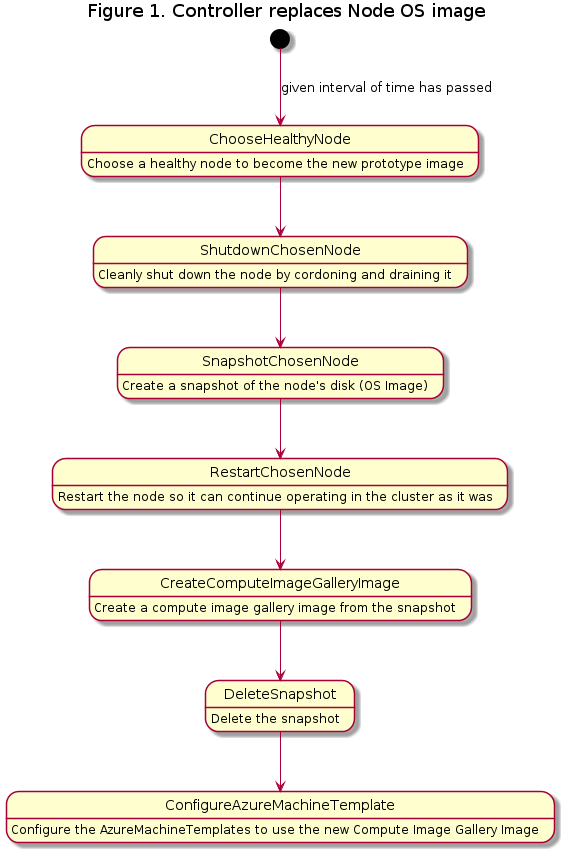
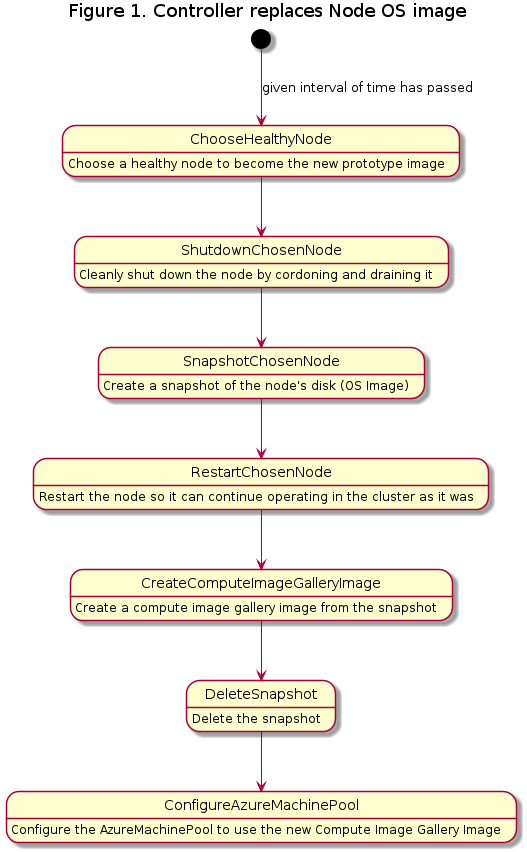
Trying to squash commits and add proposal

diff --git a/docs/proposals/20230612-node-os-image-caching.md b/docs/proposals/20230612-node-os-image-caching.md
@@ -20,7 +20,7 @@ Integrate Node OS Image caching with CAPZ
 
 ## Table of Contents
 
-- [Title](#title)
+- [Integrate Node OS Image caching with CAPZ](#title)
   - [Table of Contents](#table-of-contents)
   - [Glossary](#glossary)
   - [Summary](#summary)
@@ -29,15 +29,6 @@ Integrate Node OS Image caching with CAPZ
     - [Non-Goals/Future Work](#non-goalsfuture-work)
   - [Proposal](#proposal)
     - [User Stories](#user-stories)
-      - [Story 1](#story-1)
-      - [Story 2](#story-2)
-    - [Requirements (Optional)](#requirements-optional)
-      - [Functional Requirements](#functional-requirements)
-        - [FR1](#fr1)
-        - [FR2](#fr2)
-      - [Non-Functional Requirements](#non-functional-requirements)
-        - [NFR1](#nfr1)
-        - [NFR2](#nfr2)
     - [Implementation Details/Notes/Constraints](#implementation-detailsnotesconstraints)
     - [Security Model](#security-model)
     - [Risks and Mitigations](#risks-and-mitigations)
@@ -55,27 +46,26 @@ Node Prototype Pattern - Where we take a known good/working OS snapshot and make
 
 Warm nodes - The concept of keeping up extraneous and unused nodes to prevent having to wait for patches or security updates, thus allowing you to have those nodes ready when more users try to use your service without the wait times.
 
-Compute Image Gallery - A repository that is an Azure Resource for managing and sharing images
+Azure Compute Gallery - An Azure Resource for managing and sharing artifacts such as images
 
 Snapshot - A static copy of the image at the point in time that it is taken
 
-Prototype Node - Whichever node has been the most steadily healthy for the longest (so it has the oldest last transition to ready state) and is chosen off of that metric as the one to clone the OS image of and cache it for future nodes to use
+Prototype Node - Whichever node is chosen to clone the OS image of and cache it for future nodes to use
 
 ## Summary
 
-The existing controllers will be modified to cache the Nodes’ OS image on a regular interval and update the model to use that image for future scale outs. This feature will allow for:
-- faster horizontal scaling 
-- prevent security alerts from new nodes which immediately need a security update as those new nodes will now come with the security update already installed
-- help prevent users from needing to spin up warm nodes and overprovision
+This proposal introduces modifications to the `AzureMachinePool` controller for an optional feature which will cache the Nodes’ OS image on a regular interval and update the model to use that image for future scale outs.
 
 ## Motivation
 
-A model scenario would be an operator spinning up a CAPZ cluster and having this feature be able to be toggled on or off. If it was toggled on, then as the months passed and more security updates and patches needed to be applied to the operator’s node OS image, these changes would be cached on a regular interval and the operator would no longer have to wait for these changes to apply on new node creations. Operators will also have the option of immediately propogating updates to nodes according to a RollingUpdate configuration or rely on the dynamic nature of the cluster to scale in updated nodes as needed by toggling a configuration. As a result, users will have faster horizontal scaling and require fewer warm nodes and overprovisioning to avoid this problem, especially since the new nodes will have the container images of the applications it will run pre-cached so pods will run quicker when scheduled. This feature will also help users have better security compliance as new nodes will already be compliant instead of needing to patch.
+We want users to have faster horizontal scaling and require fewer warm nodes and overprovisioning to avoid this problem, especially since the new nodes will have the container images of the applications it will run pre-cached so pods will run quicker when scheduled. This feature will also help users have better security compliance as new nodes will already be compliant instead of needing to patch.
 
 ### Goals
 
-1. A solution using the Node Prototype pattern which cache’s nodes’ OS image on a regular interval and replaces it as a new Machine or MachinePool template VM image
-1. Faster horizontal scale outs of applications
+1. Make the feature configurable
+1. Avoid causing and breaking changes to previous users
+1. Successfully be able to snapshot and switch to the new image created from that snapshot
+1. Show that faster horizontal scaling speeds have been achieved with this feature
 1. Prevent security breaking issues on node bootup from security updates being required immediately
 
 We will know we’ve succeeded when we can benchmark speed increases and successful image changes.
@@ -89,6 +79,7 @@ We will know we’ve succeeded when we can benchmark speed increases and success
 1. Automatic bad snapshot rollbacks since it will be hard to generically determine when a snapshot is bad currently
 1. Annotating the timestamp on each node of when it was updated with automatic security updates
 1. Allow the feature to be enabled for any type of image (marketplace or custom with ID)
+1. `AzureMachineTemplate` support, holding out for now because of immutability of the `AzureMachineTemplates`
 
 ## Proposal
 
@@ -108,36 +99,38 @@ As an operator I would like to be able to have my node’s OS image cache for th
 
 ### Implementation Details/Notes/Constraints
 
-The plan is to modify the existing Controllers with the Node Prototype Pattern as desired. These controller additions can be added to AzureMachine Controller and AzureMachinePool Controller.
+The plan is to modify the existing Controllers with the Node Prototype Pattern as desired. These controller additions can be added to `AzureMachinePool` Controller.
 
-An operator will be able to decide to turn the feature on or off with an environment variable on clusterctl initialization, and then on a cluster by cluster basis can alter the AzureMachineTemplates and AzureMachinePools to specify the use of the feature. They can also update the AzureMachineTemplate and AzureMachinePool to customize how long they want the caching interval to be (see the yaml files below in this section for the caching interval).
+An operator will be able to decide to turn the feature on or off with an environment variable on clusterctl initialization, and then on a cluster by cluster basis can alter the `AzureMachinePools` to specify the use of the feature. They can also update the `AzureMachinePool` to customize how long they want the caching interval to be (see the yaml files below in this section for the caching interval).
 
-Example of the enviornment variable being turned on:
+Example of the environment variable being turned on:
 
 ```
-export AZURE_OS_CACHING=true
+export AZURE_NODE_OS_CACHING=true
 ```
 
-The controller will maintain a timestamp in each AzureMachinePool and AzureMachineTemplate, and when the current time is the chosen interval ahead or more, the controller will perform the caching. Since the current controller manager requeues all objects every ten minutes by default the objects will be requeued shortly after its due time to be recached. This is because typically we expect to cache every 24 hours and it is very unexpected that this won't be frequent enough considering normal patch rates. 
+The controller will maintain a timestamp in each `AzureMachinePool`, and when the current time is the chosen interval ahead or more, the controller will perform the caching. Since the current controller manager requeues all objects every ten minutes by default the objects will be requeued shortly after its due time to be recached. This is because typically we expect to cache every 24 hours and it is very unexpected that this won't be frequent enough considering normal patch rates. 
 
-Example of how the timestamp will be maintained in the AzureMachinePool and AzureMachineTemplates:
+Example of how the timestamp will be maintained in the `AzureMachinePool`:
 
 ```yaml
 status:
-  lastPrototype: "2023-06-12T23:14:55Z"
+  lastImagePrototype: "2023-06-12T23:14:55Z"
 ```
 
-When the process is started it should go through the nodes of the cluster, choose a healthy node, shut it down, take a snapshot of it, restart it, create a compute image gallery image, delete the snapshot, and then configure the AzureMachineTemplate specs to use that compute image gallery image. After, it will store the current time as its timestamp. As a note, for the first implementation of this feature we will require the user to also use a compute image gallery image.
+When the process is started it should go through the nodes of the cluster, choose a healthy node, shut it down, take a snapshot of it, restart it, create a Azure Compute Gallery image, delete the snapshot, and then configure the `AzureMachinePool` spec to use that Azure Compute Gallery image. After, it will store the current time as its timestamp. As a note, for the first implementation of this feature we will require the user to also use a Azure Compute Gallery image.
 
 Diagram of the Node OS Caching Process:
 
 ![Figure 1](./images/node-os-image-cache.png)
 
-As for why the healthy node has to be shut down while creating a snapshot of it, if it isn’t shut down first then pods can be scheduled as the snapshot is taken which will cause some dangerous states in terms of how it exists after being utilized by the AzureMachineTemplates.
+As for why the healthy node has to be shut down while creating a snapshot of it, if it isn’t shut down first then pods can be scheduled as the snapshot is taken which will cause some dangerous states in terms of how it exists after being utilized by the `AzureMachinePools`.
 
-In terms of how a healthy node would be selected, there is already state data present on each AzureMachinePoolMachine and AzureMachine which we can use and is listed in the examples below. An ideal node would be one which is running and healthy. Whichever node has been running and healthy for the longest amount of time since the last patch and has the patch applied should be chosen as it’s the most overall stable. This means that for AzureMachinePoolMachines and AzureMachines we will take the node with the earliest creation time from metadata.creationTimestamp and has latestModelApplied : true present if it is an AzureMachinePoolMachine. If it is an AzureMachine, since they tend to be updated together with automatic security updates and are immutable in regard to user changes to the OS image, we don't need to worry about a field like latestModelApplied. As the prototype is always from a successfully healthy and working node the image is always known to be working before being chosen for replication. In terms of knowing if the patch has been applied, for the first development of this feature we won't know but all nodes should roughly be patched together so it will be fine in most cases.
+#### Healthy Node Selection
 
-Example AzureMachinePoolMachine yaml with the important fields shown (want status.ready == true, latestModelApplied: true and each status: "True"):
+There is already state data present on each `AzureMachinePoolMachine` which we can use and is listed in the examples below. An ideal node would be one which is running and healthy. Whichever node has been running and healthy for the longest amount of time should be chosen as it’s the most overall stable. This means that for `AzureMachinePoolMachines` we will take the node with the earliest creation time from `metadata.creationTimestamp` and has `latestModelApplied : true` present if it is an `AzureMachinePoolMachine` since this means that any user changes to the OS image have been rolled out already on this node. As the prototype is always from a successfully healthy and working node the image is always known to be working before being chosen for replication. In terms of knowing if the node os image has had updates that are not user made (so like automatic kernel patches), for the first development of this feature we won't know but all nodes in a cluster are configured to regularly automatically apply security patches to system packages.
+
+Example `AzureMachinePoolMachine` yaml with the important fields shown (want `status.ready == true`, `latestModelApplied: true` and each `status: "True"`):
 
 ```yaml
 apiVersion: infrastructure.cluster.x-k8s.io/v1beta1
@@ -161,51 +154,15 @@ status:
   ready: true
 ```
 
-Example AzureMachine yaml with the important fields shown (want status.ready == true and each status: "True"):
+#### When to take a Snapshot
 
-```yaml
-apiVersion: infrastructure.cluster.x-k8s.io/v1beta1
-kind: AzureMachine
-metadata:
-  name: node-os-image-caching-machine
-  namespace: default
-  creationTimestamp: "2023-06-20T17:38:39Z"
-status:
-  conditions:
-  - lastTransitionTime: "2023-06-20T17:41:16Z"
-    status: "True"
-    type: Ready
-  - lastTransitionTime: "2023-06-20T17:41:16Z"
-    status: "True"
-    type: BootstrapSucceeded
-  - lastTransitionTime: "2023-06-20T17:40:16Z"
-    status: "True"
-    type: DisksReady
-  - lastTransitionTime: "2023-06-20T17:40:16Z"
-    status: "True"
-    type: VMRunning
-  ready: true
-```
+A day is given as a general example which should be good for typical use but the specification of how often will be customizable as we know that certain operators have different strategies and use cases for how they’re running their services on our clusters.
 
-In terms of when to take a snapshot, a day is given as a general example which should be good for typical use but the specification of how often will be customizable as we know that certain operators have different strategies and use cases for how they’re running their services on our clusters.
+#### Data model changes
 
-In terms of data model changes, AzureMachineTemplate and AzureMachinePool will be changed and the changes we expect will be purely additive and nonbreaking. No removals should be required to the data model. For AzureMachineTemplate and AzureMachinePool we will add a new optional field under spec.template.image called nodePrototyping which will be enabled if present and it have a required field under it called interval which will map to an interval of 1 day or 24 hours by default. For AzureMachinePool, we will also add an optional field under spec.strategy.rollingUpdate called prototypeAutomaticRollout which will be set to false by default since we don't want the replacement of a node OS image to automatically trigger a rolling update of all the nodes. This is because the new image will be functionally identical to the old one outside of name itself (since the old nodes will all have the update and security patch contents already present). If for some reason the operator wants to always trigger this rollout (maybe if they programatically use the image names themselves), then they can simply set this field to true.
+`AzureMachinePool` will be changed and the proposed changes are purely additive and nonbreaking. No removals should be required to the data model. For `AzureMachinePool` we will add a new optional field under `spec.template.image` called `nodePrototyping` which will be enabled if present and it have a required field under it called interval which will map to an interval of 1 day or 24 hours by default.
 
-Example AzureMachineTemplate yaml:
-```yaml
-apiVersion: infrastructure.cluster.x-k8s.io/v1beta1
-kind: AzureMachineTemplate
-metadata:
-  name: node-os-image-caching-machine-template
-  namespace: default
-spec:
-  template:
-    image:
-      nodePrototyping:
-        interval: 24h
-```
-
-Example AzureMachinePool yaml:
+Example `AzureMachinePool` yaml:
 ```yaml
 apiVersion: infrastructure.cluster.x-k8s.io/v1beta1
 kind: AzureMachinePool
@@ -216,37 +173,24 @@ spec:
   image:
       nodePrototyping:
         interval: 24h
-  rollingUpdate:
-      deletePolicy: Oldest
-      maxSurge: 25%
-      maxUnavailable: 1
-      prototypeAutomaticRollout: false
-  type: RollingUpdate
 ```
 
 ### Security Model
 
-This proposal requires CAPZ to have write permissions for azureMachinePools and azureMachineTemplates in order to properly update the nodes’ OS image on the spec. Go has a library called time and time.ParseDuration will be used to parse the time interval provided by an operator instead of using regular expressions. Denial of service attacks will be protected against by having an update system which doesn’t need to be atomic. If part of the caching is complete there is no risk in the update not finishing since the spec update will happen at once. No sensitive data is being stored in a secret.
+This proposal requires CAPZ to have write permissions for `AzureMachinePools` in order to properly update the nodes’ OS image on the spec. Go has a library called `time` and `time.ParseDuration` will be used to parse the time interval provided by an operator instead of using regular expressions. Denial of service attacks will be protected against by having an update system which doesn’t need to be atomic. If part of the caching is complete there is no risk in the update not finishing since the spec update will happen at once. No sensitive data is being stored in a secret.
 
 ### Risks and Mitigations
 
 Example risks:
-1. A bad snapshot is taken, and we will mitigate this risk by having trying to prevent it before it happens by checking if things are ready and draining everything before taking the snapshot. Rolling back and determining if a bad shapshot is bad is out of scope for this proposal currently and will be for the operator to watch, so here we will simply try to prevent it as best as we can.
+1. A bad snapshot is taken, and we will mitigate this risk by having trying to prevent it before it happens by checking if things are ready and draining everything before taking the snapshot. Rolling back and determining if a bad snapshot is bad is out of scope for this proposal currently and will be for the operator to watch, so here we will simply try to prevent it as best as we can.
 1. A bad security patch or update might have been applied to a user’s node that they don’t want to be applied to future nodes. To mitigate this risk, we will make it easy for users to turn this feature off, and if they fix it on their original node the snapshot will be taken of that node instead.
-
-The following limits exist for Azure Compute Galleries:
-1. 100 galleries, per subscription, per region
-1. 1,000 image definitions, per subscription, per region
-1. 10,000 image versions, per subscription, per region
-1. 100 replicas per image version however 50 replicas should be sufficient for most use cases
-1. Any disk attached to the image must be less than or equal to 1 TB in size
-1. Resource move isn't supported for Azure compute gallery resources
+1. Deleting previous snapshots might not allow for new image instantiations from those snapshots since Azure Compute Gallery Image Definition Version instances may depend directly on those snapshots still being there. Instead deletion can be done after making sure the new image is successful for new deployments.
 
 Link to page with Azure Compute Gallery limits: https://learn.microsoft.com/en-us/azure/virtual-machines/azure-compute-gallery
 
-Thus the feature will not work for OS images with disks attached greater than 1 TB in size. These limits should be kept in mind by the operator since this feature requires the use of an Azure Compute Gallery. The Azure Compute Gallery itself costs no money. For each image, it costs roughly $0.10 - $0.13 for a CAPI image per region and $0.1 - $0.3 for a plain Flatcar image per region with the Standard HDD LRS storage account type every day. Scaling across other regions will also accrue network egress charges. Thus, the feature may cost the operator more money if they don't need faster horizontal scaling.
+Link to page with snapshot pricing (Azure Compute Galleries themselves are free): https://azure.microsoft.com/en-us/pricing/details/managed-disks/
 
-The UX will mostly be impactful towards operators and members of the CAPZ community will test these changes and give feedback on them. Security will also likely follow in terms of how it gets reviewed, but no major security problems should be possible from this change. For folks who work outside the SIG or subproject, they should hopefully have faster horizontal scaling without needing to directly do anything outside of setting an environment variable on clusterctl initialization and updating their AzureMachinePools and AzureMachineTemplates.
+The UX will mostly be impactful towards operators and members of the CAPZ community will test these changes and give feedback on them. Security will also likely follow in terms of how it gets reviewed, but no major security problems should be possible from this change. For folks who work outside the SIG or subproject, they should hopefully have faster horizontal scaling without needing to directly do anything outside of setting an environment variable on clusterctl initialization and updating their `AzureMachinePools`.
 
 ## Alternatives
 
@@ -254,13 +198,12 @@ No currently known alternatives exist which are public and have been implemented
 
 In terms of how we choose a node as the prototype node, lots of different metrics or heuristics can be used like manually creating a temporary prototype for testing, having the fastest ready time, or anything else which is seen as typically good but a more generalist approach is outlined here since more specific methods may not be as helpful for certain operators.
 
-For architectural details of where else the code could exist, the controller section makes the most sense since this proposal will be constantly modifying the state of our objects, but theoretically it could be largely put into hack with shell scripts and then a controller could simply be ordered to trigger that shell script, but this is less maintainable in the long run and not as preferred. 
-
-In terms of rollout strategies, we could prevent exposing the strategy altogether and just make it so that caching doesn't automatically rollout an update to all the other nodes. This would give users less customizability but in a typically expected use case this will effectively be the exact same end result.
+For architectural details of where else the code could exist, the controller section makes the most sense since this proposal will be constantly modifying the state of our objects, but theoretically it could be largely put into hack with shell scripts and then a controller could simply be ordered to trigger that shell script, but this is less maintainable in the long run and not as preferred.
+We can put it in the `AzureMachinePool` controller or make it another controller, both are viable options and putting it in the `AzureMachinePool` controller will be faster to implement versus another controller will allow for a cleaner codebase overall. 
 
 ## Upgrade Strategy
 
-Turning off or on the feature for a particular operator is done with them setting an environment variable to enable or disable it with clusterctl initialization. They will also be able to alter their AzureMachinePool and AzureMachineTemplate instances to add the feature or remove it and that is all that is required to keep previous behavior or make use of the enhancement. No backwards compatibility will be broken, all this feature request will do is change previous controllers and add optional fields to AzureMachinePool, and AzureMachineTemplate which can be utilized or not as desired.
+Turning off or on the feature for a particular operator is done with them setting an environment variable to enable or disable it with clusterctl initialization. They will also be able to alter their `AzureMachinePool` instances to add the feature or remove it and that is all that is required to keep previous behavior or make use of the enhancement. No backwards compatibility will be broken, all this feature request will do is change previous controllers and add optional fields to `AzureMachinePool` which can be utilized or not as desired.
 
 ## Additional Details
 
@@ -269,7 +212,7 @@ Turning off or on the feature for a particular operator is done with them settin
 There will be e2e tests, at least one of which will be as follows:
 Have an example node and an example patch, apply the patch to the preexisting node, and then trigger the controller to pretend the interval of time has passed, and then it should attempt to create another node and compare the OS image of the new node and the original node, finding that they are both the same image.
 
-It should be tested primarily in isolation as other components shouldn’t affect what it tries to do, but it may need to be checked with other components to see what happens if certain race conditions or updates at the same time of AzureMachineTemplate are occurring (in which case a lower priority should likely be assigned to this controller for finishing its task after as ideally those changes are in effect before isolating the node).
+It should be tested primarily in isolation as other components shouldn’t affect what it tries to do, but it may need to be checked with other components to see what happens if certain race conditions or updates at the same time of `AzureMachinePool` are occurring (in which case a lower priority should likely be assigned to this controller for finishing its task after as ideally those changes are in effect before isolating the node).
 
 ### Graduation Criteria [optional]
 
@@ -281,7 +224,7 @@ Stable:
 
 The feature has been used for a while and is widely acceptable as well as reliable and will now be enabled by default.
 
-At this point a more sophisticated method of choosing a healthy node will be used, preferably by annotating the AzureMachine and AzureMachinePoolMachine instances after every patch. This will allow for more optimization and fewer unnecessary uses of this operation as if no updates in the interval are needed we would be able to now properly know.
+At this point a more sophisticated method of choosing a healthy node will be used, preferably by annotating the `AzureMachinePoolMachine` instances after every patch. This will allow for more optimization and fewer unnecessary uses of this operation as if no updates in the interval are needed we would be able to now properly know.
 
 ### Version Skew Strategy [optional]
 
@@ -289,11 +232,11 @@ The feature itself should not depend significantly on the version of CAPI and wi
 
 ## Implementation History
 
-- [ ] MM/DD/YYYY: Proposed idea in an issue or [community meeting]
-- [ ] MM/DD/YYYY: Compile a Google Doc following the CAEP template (link here)
-- [ ] MM/DD/YYYY: First round of feedback from community
-- [ ] MM/DD/YYYY: Present proposal at a [community meeting]
-- [ ] MM/DD/YYYY: Open proposal PR
+- [ ] 06/06/2023: Starting Compiling a Google Doc following the CAEP template
+- [ ] 06/07/2023: First round of feedback from community
+- [ ] 06/12/2023: Open proposal PR [https://github.com/kubernetes-sigs/cluster-api-provider-azure/pull/3624]
+- [ ] 06/15/2023: Proposed idea and got some feedback on the PR from the community meeting for CAPZ: [https://docs.google.com/document/d/1ushaVqAKYnZ2VN_aa3GyKlS4kEd6bSug13xaXOakAQI/edit#heading=h.pxsq37pzkbdq]
+- [ ] 07/17/2023: Opened issue for features relating to this PR [https://github.com/kubernetes-sigs/cluster-api-provider-azure/issues/3737]
 
 <!-- Links -->
 [community meeting]: https://docs.google.com/document/d/1ushaVqAKYnZ2VN_aa3GyKlS4kEd6bSug13xaXOakAQI/edit#heading=h.pxsq37pzkbdq
